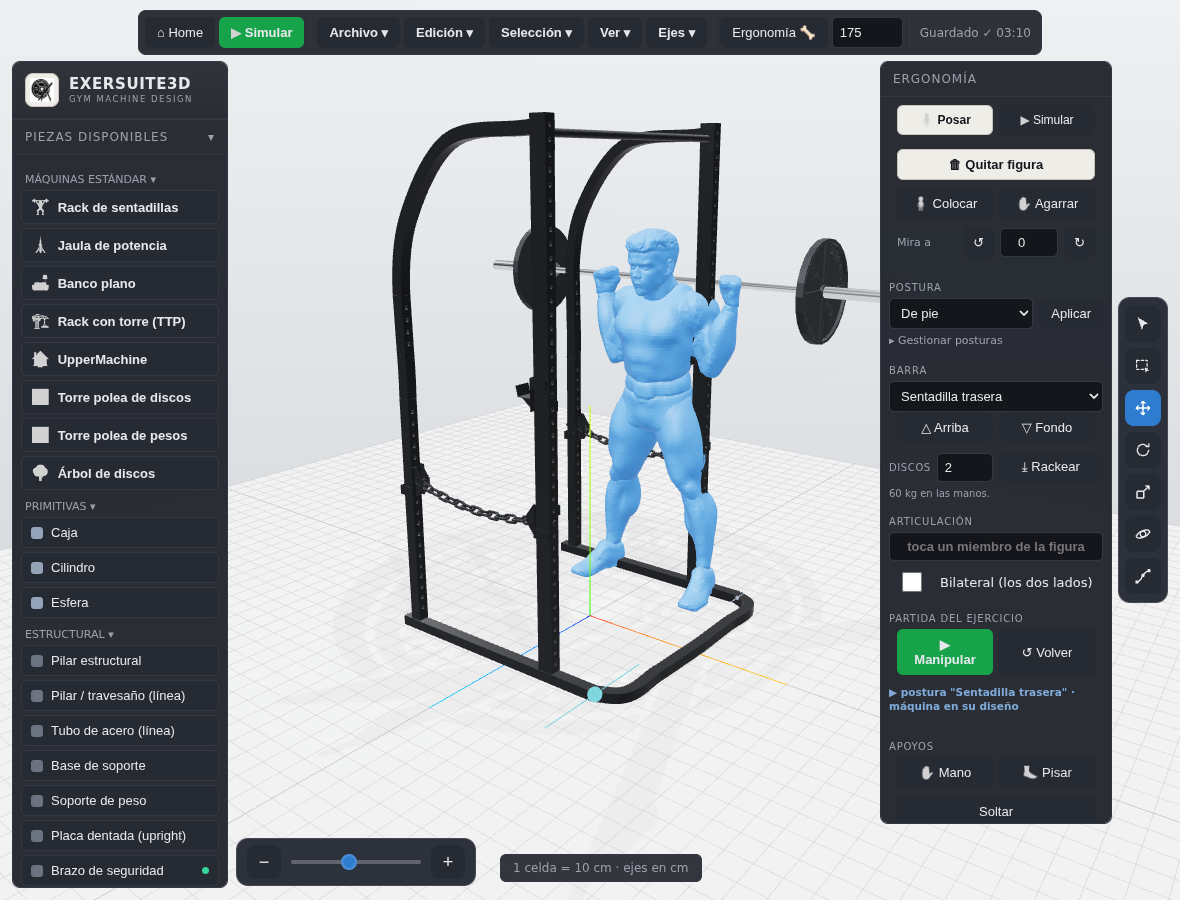
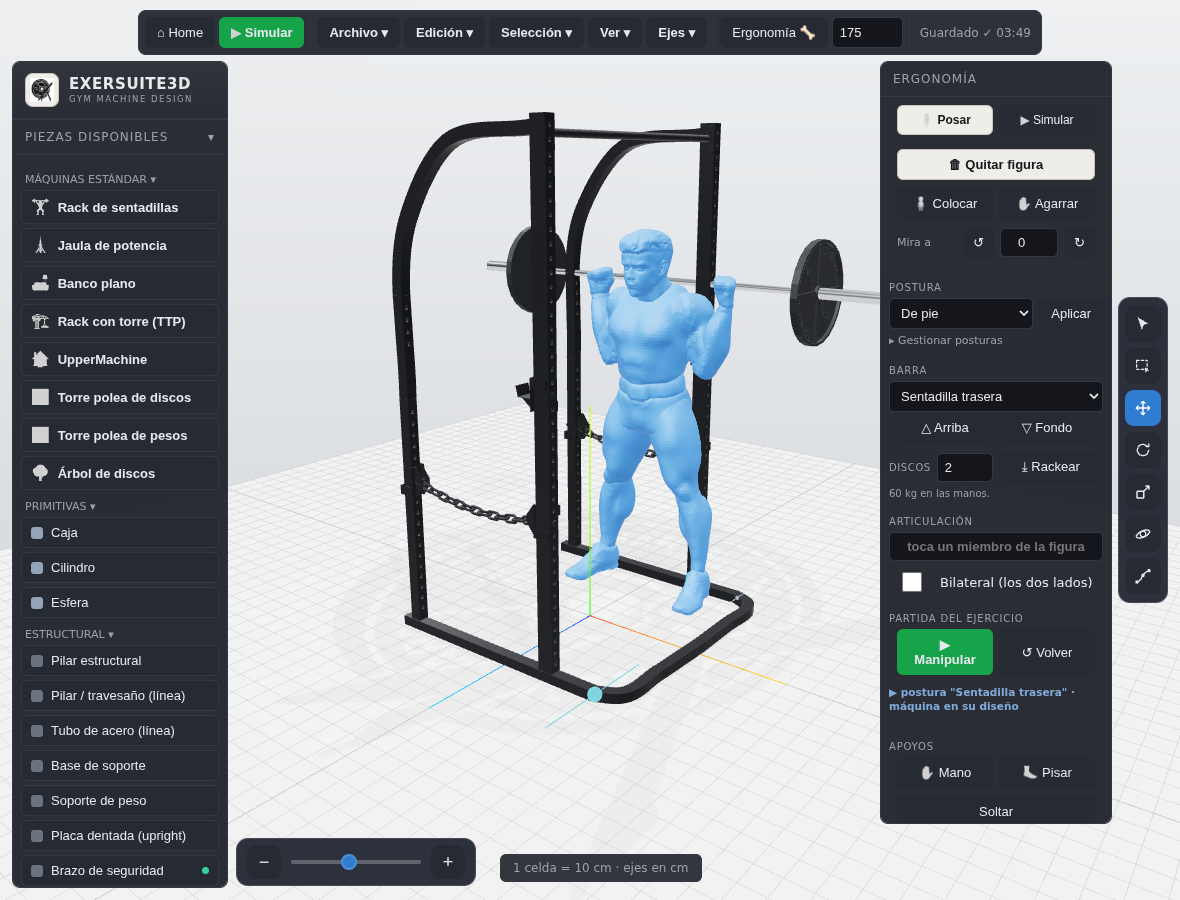
La frontal equilibra con la cadera, y por eso puede quedarse vertical
v0.2.100. La cinemática de la sentadilla frontal.

EL DIAGNÓSTICO. Las dos posturas de fondo tenían la MISMA PIERNA —cadera
−78,61°, rodilla 126°, tobillo −43,46°— y solo se diferenciaban en el tronco y
los brazos. Con la barra delante y esa pierna, la única forma que tenía la
frontal de equilibrarse era echar el tronco hacia ATRÁS: −2,9° en el fondo, y
oscilando hasta +6,9° por el camino. Un apaño, no un gesto.

EL ARREGLO. La incógnita cambia de sitio. La trasera equilibra con el tronco y
se queda como está, aprobada; la frontal equilibra con la CADERA: el tronco no
se toca, la rodilla manda el descenso y lo que se resuelve contra el medio del
pie es cuánto se echan atrás las caderas. Medido en el gesto entero, frontal
contra trasera: tronco 0,00° en todos los pasos contra 18,72° en el fondo;
tobillo 4,93° → −39,28° contra 3,48° → −43,49°; rodilla de 25,95 cm por detrás
de la puntera a 4,89 por delante; abducción −10,64° → −37,44°. La barra se queda
en 0,00 cm del medio del pie en las dos.

Dos cosas que costaron encontrar. La pelvis es la RAÍZ del rig, así que girar la
cadera mueve las piernas y no el tronco: con la huella congelada como blanco la
función salía casi plana y la cadera no se movía ni un grado; se mide contra la
huella de cada sondeo y se anula la distancia RELATIVA, que es lo que sobrevive
al replantado. Y el tobillo tiene que acompañar dentro de cada sondeo por la
cadena cerrada del apoyo, porque mover la cadera sin moverlo levanta el pie y
[…]

Changed region(s): [[0.3966, 0.2489, 0.7322, 0.6844]]

diff --git a/src/core/Editor.ts b/src/core/Editor.ts
@@ -3863,7 +3863,7 @@ export class Editor {
     const plomada: string[] = [];
     let mirada: number | null = null;
     let roce: string[] | null = null;
-    let equilibrio = false;
+    let equilibrio: "spine" | "hip" | null = null;
     let apertura = false;
     for (const [id, lado] of this.zonasActivas) {
       const z = ZONA_POR_ID[id];
@@ -3935,7 +3935,7 @@ export class Editor {
           // lado: se guarda una sola vez y al aplicarlo se usan los lados que
           // haya recogido la plomada, que son los mismos brazos.
           if (ac.tipo === "roce") { roce = ac.segmentos; continue; }
-          if (ac.tipo === "equilibrio") { equilibrio = true; continue; }
+          if (ac.tipo === "equilibrio") { equilibrio = ac.sobre; continue; }
           if (ac.tipo === "apertura") { apertura = true; continue; }
           const cadena = ac.cadena.map((f) => `${f}${l}`);
           acomodar.push({
@@ -3989,10 +3989,16 @@ export class Editor {
     // hacia DELANTE lo justo para no meterla en la carne. Al revés la plomada
     // desharía la corrección.
     if (roce && plomada.length && this.acomodarRoce(plomada, roce, joints)) n++;
-    // LA APERTURA VA ANTES QUE EL EQUILIBRIO: abrir la cadera mueve las pisadas
-    // y con ellas el blanco que persigue el tronco.
+    // EL EQUILIBRIO PRIMERO Y LA APERTURA DESPUÉS, y luego el equilibrio otra
+    // vez. Las dos tocan la cadera —una su flexión, la otra su abducción— y se
+    // mueven la referencia mutuamente: la abducción cambia dónde caen las
+    // pisadas, y la flexión cambia la separación entre ellas. Con la apertura
+    // sola por delante, la postura de la frontal oscilaba entre 59,2 y 62,7 cm.
+    // Dos pasadas del sagital con la lateral en medio las dejan a las dos
+    // clavadas, y no hace falta más porque cada paso solo corrige un paso.
+    if (equilibrio && this.acomodarEquilibrio(joints, equilibrio)) n++;
     if (apertura && huella && this.acomodarApertura(joints, huella)) n++;
-    if (equilibrio && this.acomodarEquilibrio(joints)) n++;
+    if (equilibrio) this.acomodarEquilibrio(joints, equilibrio);
     if (mirada !== null && this.acomodarMirada(mirada, joints)) n++;
 
     this.reapoyarFigura();
@@ -4268,36 +4274,91 @@ export class Editor {
    * que declarar en ninguna parte que la frontal va más vertical: lo dice la
    * geometría del apoyo.
    */
-  private acomodarEquilibrio(joints: Record<string, THREE.Object3D>): boolean {
+  private acomodarEquilibrio(
+    joints: Record<string, THREE.Object3D>,
+    sobre: "spine" | "hip",
+  ): boolean {
     const fig = this.humanFigure;
-    const columna = joints.spine;
     const enlace = this.barraManiqui;
-    if (!fig || !columna || !enlace || enlace.rackeada) return false;
-    if (this.jointLocks.has("spine")) return false;
+    if (!fig || !enlace || enlace.rackeada) return false;
+    // QUIÉN CEDE PARA EQUILIBRAR. En la trasera, el tronco. En la frontal, la
+    // cadera —el tronco se queda vertical y la rodilla se adelanta—, y entonces
+    // son dos articulaciones que se mueven juntas, una por pierna.
+    const piezas = sobre === "spine"
+      ? [joints.spine]
+      : [joints.hipL, joints.hipR];
+    const nombres = sobre === "spine" ? ["spine"] : ["hipL", "hipR"];
+    if (piezas.some((j) => !j) || nombres.some((n) => this.jointLocks.has(n))) return false;
     const barra = this.objects.get(enlace.objectId);
-    const lim = JOINT_DOF.spine?.x;
+    const limites = nombres.map((n) => JOINT_DOF[n]?.x);
     const huella = this.huellaDeLosPies();
-    if (!barra || !lim || !huella) return false;
+    if (!barra || limites.some((l) => !l) || !huella) return false;
+    // El corchete es el rango común: fuera de él una de las dos caderas ya no
+    // podría acompañar y dejarían de moverse juntas.
+    const lim: [number, number] = [
+      Math.max(...limites.map((l) => l![0])),
+      Math.min(...limites.map((l) => l![1])),
+    ];
     const adelante = new THREE.Vector3(0, 0, 1).applyQuaternion(fig.quaternion).setY(0).normalize();
-    const blanco = huella.L.clone().add(huella.R).multiplyScalar(0.5).dot(adelante);
-    const original = radToDeg(columna.rotation.x);
+    const original = radToDeg(piezas[0]!.rotation.x);
+    // EL TOBILLO VA DETRÁS DE LA CADERA, dentro de cada sondeo. Mover la cadera
+    // sin mover el tobillo levanta el pie del suelo, y entonces «el medio del
+    // pie» deja de significar nada: el primer intento saturó la cadera en su
+    // tope de +30° y el tobillo en el suyo de −50°. La cadena cerrada del apoyo
+    // es la de siempre —`tobillo = objetivo − (cadera + rodilla)`, la misma que
+    // usa la acomodación de la planta—, así que cada sondeo se hace con el pie
+    // ya plantado y lo que se mide es una postura de verdad.
+    const tobillos = sobre === "hip"
+      ? (["L", "R"] as const).map((l) => ({
+        pieza: joints[`ankle${l}`],
+        rodilla: joints[`knee${l}`],
+        lim: JOINT_DOF[`ankle${l}`]?.x,
+        objetivo: this.objetivoDeAcomodacion(`ankle${l}`, [`hip${l}`, `knee${l}`], joints),
+      })).filter((t) => t.pieza && t.rodilla && t.lim)
+      : [];
     const desvio = (deg: number): number => {
-      columna.rotation.x = degToRad(deg);
+      for (const j of piezas) j!.rotation.x = degToRad(deg);
+      for (const t of tobillos) {
+        const quiere = t.objetivo - deg - radToDeg(t.rodilla!.rotation.x);
+        t.pieza!.rotation.x = degToRad(Math.max(t.lim![0], Math.min(t.lim![1], quiere)));
+      }
       fig.updateMatrixWorld(true);
       this.sincronizarBarraManiqui();
-      return barra.mesh.position.dot(adelante) - blanco;
+      // LA HUELLA SE VUELVE A MEDIR EN CADA SONDEO, y no vale congelarla. La
+      // pelvis es la RAÍZ del rig: girar la cadera mueve las PIERNAS, no el
+      // tronco, así que la barra se queda donde está y lo que viaja es el pie.
+      // Con la huella congelada la función salía casi plana —no había raíz que
+      // encontrar y la cadera no se movía ni un grado—. Medida contra la huella
+      // de cada sondeo, lo que se anula es la distancia RELATIVA entre barra y
+      // pisada, que es justo lo que sobrevive al replantado del final del paso.
+      const h = this.huellaDeLosPies() ?? huella;
+      return barra.mesh.position.dot(adelante)
+        - h.L.clone().add(h.R).multiplyScalar(0.5).dot(adelante);
     };
-    let a = lim[0], b = lim[1];
-    const fa = desvio(a);
-    if (fa * desvio(b) > 0) {
-      // La columna no da para tanto: se deja en el tope que más se acerca. Es
-      // una conclusión ergonómica —esa sentadilla no se aguanta— y se avisa por
-      // el mismo canal que el tobillo sin recorrido.
-      const mejor = Math.abs(fa) < Math.abs(desvio(b)) ? a : b;
-      desvio(mejor);
-      this.acomodacionAlLimite = true;
-      return Math.abs(mejor - original) > 1e-3;
+    // LA RAÍZ SE BUSCA CERCA, como en la plomada del brazo. Barrer el rango
+    // entero de la cadera (−135° a +30°) pasa por posturas imposibles —la pierna
+    // plegada sobre sí misma, el pie sin apoyo— donde la medida no significa
+    // nada, y la bisección se va a la rama absurda. Se abre el corchete desde
+    // donde está AHORA hacia los dos lados: esa es la solución continua.
+    let a = original, b = original;
+    const f0 = desvio(original);
+    let hay = Math.abs(f0) < 1e-4;
+    for (let d = 2; d <= 240 && !hay; d += 2) {
+      const arriba = Math.min(lim[1], original + d);
+      const abajo = Math.max(lim[0], original - d);
+      if (desvio(arriba) * f0 <= 0) { a = original; b = arriba; hay = true; break; }
+      if (desvio(abajo) * f0 <= 0) { a = abajo; b = original; hay = true; break; }
+      if (arriba === lim[1] && abajo === lim[0]) break;
     }
+    if (!hay) {
+      // No hay equilibrio alcanzable: se deja como estaba y se avisa por el
+      // mismo canal que el tobillo sin recorrido. Es una conclusión ergonómica
+      // —esa sentadilla no se aguanta—, no un fallo.
+      desvio(original);
+      this.acomodacionAlLimite = true;
+      return false;
+    }
+    const fa = desvio(a);
     for (let i = 0; i < 40; i++) {
       const m = (a + b) / 2;
       if (desvio(m) * fa > 0) a = m; else b = m;

diff --git a/src/objects/movimientos.ts b/src/objects/movimientos.ts
@@ -168,7 +168,7 @@ export type AcomodacionMov =
   | { tipo: "plomada"; familia: string; es: string; en: string }
   | { tipo: "mirada"; familia: string; distanciaCm: number; es: string; en: string }
   | { tipo: "roce"; familia: string; segmentos: string[]; es: string; en: string }
-  | { tipo: "equilibrio"; familia: string; es: string; en: string }
+  | { tipo: "equilibrio"; familia: string; sobre: "spine" | "hip"; es: string; en: string }
   | { tipo: "apertura"; familia: string; es: string; en: string };
 
 /** Un tramo del gesto, entre dos posturas de la biblioteca. */
@@ -282,11 +282,39 @@ const ROCE: AcomodacionMov = {
  * frontsquat mantiene un torso vertical para prevenir la caída de la barra a
  * expensas de mayor rango de rodilla y tobillos».
  */
-const EQUILIBRIO: AcomodacionMov = {
+const EQUILIBRIO_TRONCO: AcomodacionMov = {
   tipo: "equilibrio",
   familia: "spine",
+  sobre: "spine",
   es: "el tronco se inclina lo justo para dejar la barra sobre el medio del pie",
   en: "the trunk leans just enough to keep the bar over mid-foot",
+};
+
+/**
+ * LA FRONTAL EQUILIBRA CON LA RODILLA, NO CON EL TRONCO (v0.2.100).
+ *
+ * La trasera quedó bien resolviendo la inclinación del tronco, y el diseñador la
+ * dio por buena. La frontal no, y la razón es que en 0.2.99 las DOS posturas de
+ * fondo tenían la MISMA PIERNA —cadera −78,61°, rodilla 126°, tobillo −43,46°—
+ * y solo se diferenciaban en el tronco. Con la barra delante y esa pierna, la
+ * única forma de equilibrar era echar el tronco un poco hacia atrás (−2,9°): un
+ * apaño, no el gesto.
+ *
+ * El gesto lo dijo el diseñador: «frontsquat mantiene un torso vertical para
+ * prevenir la caída de la barra a expensas de mayor rango de rodilla y
+ * tobillos», o sea «dorsiflexión del tobillo y anteriorización de la rodilla
+ * para mantener el torso vertical». Así que en la frontal la incógnita cambia de
+ * sitio: el tronco se queda quieto y vertical, la RODILLA manda el descenso, y
+ * lo que se resuelve contra el medio del pie es LA CADERA — que es cuánto se
+ * echan atrás las caderas—. La rodilla se adelanta y el tobillo dorsiflexiona
+ * detrás de ella, porque el tobillo ya acompaña para no despegar la planta.
+ */
+const EQUILIBRIO_CADERA: AcomodacionMov = {
+  tipo: "equilibrio",
+  familia: "hip",
+  sobre: "hip",
+  es: "la cadera busca su sitio para dejar la barra sobre el medio del pie, con el tronco vertical",
+  en: "the hip finds its place to keep the bar over mid-foot, with the trunk upright",
 };
 
 /**
@@ -313,10 +341,19 @@ const APERTURA: AcomodacionMov = {
   en: "the hip abducts so the stance does not narrow on the way down",
 };
 
-/** Reparto de la sentadilla: manda la rodilla y la cadera la acompaña. */
-const PATRON_SENTADILLA: AporteArticular[] = [
+/** Reparto de la TRASERA: manda la rodilla y la cadera la acompaña. */
+const PATRON_TRASERA: AporteArticular[] = [
   { familia: "knee", bilateral: true, empuje: -1, peso: 1, es: "extensión de rodilla", en: "knee extension" },
   { familia: "hip", bilateral: true, empuje: 1, peso: 0.9, es: "extensión de cadera", en: "hip extension" },
+];
+
+/**
+ * Reparto de la FRONTAL: manda la rodilla SOLA. La cadera no está aquí a
+ * propósito — la resuelve el equilibrio, y si además estuviera en el reparto las
+ * dos se pelearían por ella en cada paso.
+ */
+const PATRON_FRONTAL: AporteArticular[] = [
+  { familia: "knee", bilateral: true, empuje: -1, peso: 1, es: "extensión de rodilla", en: "knee extension" },
 ];
 
 /**
@@ -327,7 +364,13 @@ const PATRON_SENTADILLA: AporteArticular[] = [
  * anatómicos, rodilla 150° y cadera −134,6° contra los 126° y −78,61° del
  * modelo, con la barra 37,5 cm por detrás del pie al final del recorrido.
  */
-const planSentadilla = (id: string, arriba: string, fondo: string): PlanMov => ({
+const planSentadilla = (
+  id: string,
+  arriba: string,
+  fondo: string,
+  patron: AporteArticular[],
+  equilibrio: AcomodacionMov,
+): PlanMov => ({
   id,
   zona: "inferior",
   origen: fondo,
@@ -336,24 +379,30 @@ const planSentadilla = (id: string, arriba: string, fondo: string): PlanMov => (
       id: "subida",
       es: "sentadilla",
       en: "squat",
-      patron: PATRON_SENTADILLA,
+      patron,
       meta: arriba,
       hasta: { tipo: "meta" },
-      acomodaciones: [PLANTA, APERTURA, EQUILIBRIO],
+      acomodaciones: [PLANTA, APERTURA, equilibrio],
     },
   ],
 });
 
 export const PLANES: Record<string, PlanMov> = {
+  // LA FRONTAL: tronco vertical, manda la rodilla y la cadera busca el equilibrio.
   "sentadilla-frontal": planSentadilla(
     "sentadilla-frontal",
     "Sentadilla frontal",
     "Sentadilla frontal (fondo)",
+    PATRON_FRONTAL,
+    EQUILIBRIO_CADERA,
   ),
+  // LA TRASERA: rodilla y cadera reparten, y el tronco busca el equilibrio.
   "sentadilla-trasera": planSentadilla(
     "sentadilla-trasera",
     "Sentadilla trasera",
     "Sentadilla trasera (fondo)",
+    PATRON_TRASERA,
+    EQUILIBRIO_TRONCO,
   ),
 
   /**

diff --git a/CHANGELOG.md b/CHANGELOG.md
@@ -5,6 +5,84 @@ Todos los cambios notables de **EXERSUITE3D** se documentan aquí.
 El formato sigue [Keep a Changelog](https://keepachangelog.com/es-ES/1.1.0/)
 y el proyecto usa [Versionado Semántico](https://semver.org/lang/es/).
 
+## [0.2.100] — 2026-08-20
+
+La sentadilla frontal deja de equilibrarse con el tronco y pasa a hacerlo con la
+cadera, que es lo que le permite quedarse vertical.
+
+### Corregido
+
+**La frontal mantiene el torso vertical, y ahora sí.** El diseñador dio la
+trasera por buena y señaló la frontal: le faltaban «las correcciones necesarias
+(mediante dorsiflexión del tobillo y anteriorización de la rodilla para mantener
+el torso vertical asociada a abducción y rotación externa de cadera al
+descender)».
+
+El diagnóstico era claro en cuanto se miraba: **las dos posturas de fondo tenían
+la MISMA PIERNA** —cadera −78,61°, rodilla 126°, tobillo −43,46°— y solo se
+diferenciaban en el tronco y en los brazos. Con la barra delante y esa pierna, la
+única forma que tenía la frontal de equilibrarse era echar el tronco un poco
+hacia ATRÁS (−2,9° en el fondo, y oscilando hasta +6,9° por el camino). Un apaño,
+no un gesto.
+
+Así que en la frontal la incógnita cambia de sitio. La trasera equilibra con el
+TRONCO —y se queda como está, aprobada—; la frontal equilibra con la CADERA: el
+tronco no se toca, la rodilla manda el descenso y lo que se resuelve contra el
+medio del pie es cuánto se echan atrás las caderas. Medido en el gesto entero:
+
+| | frontal | trasera |
+|---|---|---|
+| tronco en el fondo | **0,00°** (0,00° en todo el gesto) | 18,72° (hasta 27,07°) |
+| tobillo | 4,93° → **−39,28°** | 3,48° → −43,49° |
+| rodilla sobre la puntera | −25,95 → **+4,89 cm** | −24,94 → +6,96 cm |
+| abducción de cadera | −10,64° → **−37,44°** | −10,33° → −36,53° |
+| barra sobre el medio del pie | **0,00 cm** | 0,00 cm |
+
+Y para que las dos incógnitas de la cadera —su flexión, que equilibra, y su
+abducción, que sostiene la anchura— no se estropeen la una a la otra, el paso
+resuelve sagital, lateral y sagital otra vez. Con la apertura sola por delante,
+la postura de la frontal oscilaba entre 59,2 y 62,7 cm de separación; ahora se
+queda en 59,9–61,3 y la pisada viaja 0,52 cm.
+
+Por el camino, dos cosas que costaron encontrar y conviene dejar escritas. La
+primera: la pelvis es la RAÍZ del rig, así que girar la cadera mueve las PIERNAS
+y no el tronco — con la huella congelada como blanco, la función que busca el
+equilibrio salía casi plana y la cadera no se movía ni un grado. Se mide contra
+la huella de cada sondeo, y lo que se anula es la distancia RELATIVA entre barra
+y pisada, que es justo lo que sobrevive al replantado del final del paso. La
+segunda: el tobillo tiene que acompañar DENTRO de cada sondeo —`tobillo =
+objetivo − (cadera + rodilla)`, la cadena cerrada del apoyo—, porque mover la
+cadera sin mover el tobillo levanta el pie y entonces «el medio del pie» no
+significa nada: el primer intento saturó la cadera en su tope de +30° y el
+tobillo en el suyo de −50°.
+
+### Medido, y para que lo decida el diseñador
+
+La frontal sale con **menos** dorsiflexión y **menos** rodilla por delante que la
+trasera (−39,3° contra −43,5°, y 4,89 cm contra 6,96), cuando el diseñador
+esperaba lo contrario: «a expensas de mayor rango de rodilla y tobillos». No es
+un fallo del solucionador —es geometría del modelo—: en esta figura la barra del
+rack frontal queda unos 11 cm por delante de la línea de la cadera, así que un
+tronco vertical ya deja las caderas MÁS atrás de lo que las deja el tronco
+inclinado 18,7° de la trasera, y con la misma rodilla de 126° la espinilla viaja
+menos.
+
+Hay dos palancas para invertirlo, y las dos tocan un número aprobado:
+
+1. **La rodilla del fondo de la frontal**, hoy los mismos 126° medidos sobre el
+   modelo. Subirla es literalmente «mayor rango de rodilla», y arrastra la
+   dorsiflexión detrás.
+2. **La altura del rack frontal**, hoy un 30% del cuello hacia el hombro. Subirlo
+   hacia la base del cuello acerca la barra al eje del tronco —el tronco se
+   estrecha ahí— y adelanta las caderas.
+
+### Añadido
+
+- `prueba-gesto-barra` mide ahora, en las dos sentadillas, la dorsiflexión del
+  tobillo, la abducción de la cadera y cuánto asoma la rodilla por delante de la
+  puntera a lo largo del gesto. Son los tres criterios que dio el diseñador, y
+  hasta ahora ninguno estaba comprobado.
+
 ## [0.2.99] — 2026-08-20
 
 Las sentadillas dejan de caerse hacia atrás, y la frontal sale más vertical que
